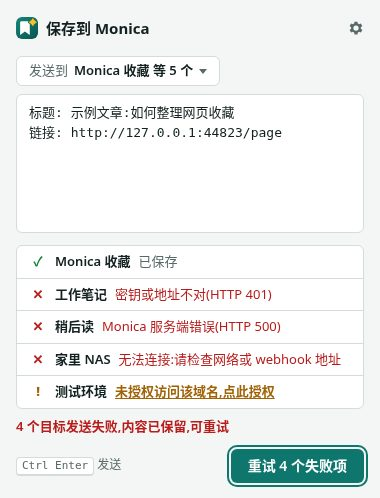
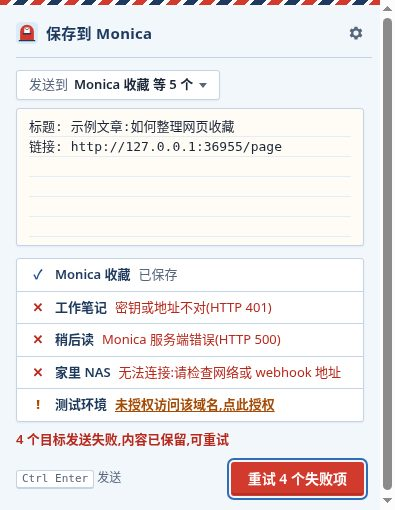
chore: release 2.1.0 with retro postal look and refreshed screenshots
- manifest: version 2.1.0; permissions unchanged.
- tests/e2e: light theme only, so the dark-mode captures
  (popup-multi-mixed-dark, popup-last-failure-dark, options-list-dark)
  and the color-scheme emulation are removed; all other assertions kept.
- docs/screenshots: 17 captures re-taken from the real extension in
  headless Chrome with dummy keys and local URLs; e2e-log.json updated.
- README / PRD: new mailbox logo, light-only postal palette and the
  non-green status colors; README shows the last-failure popup instead
  of the dropped dark capture.

diff --git a/styles/ui.css b/styles/ui.css
@@ -233,7 +233,7 @@ input[type="checkbox"] {
   accent-color: var(--navy);
 }
 
-/* One focus treatment everywhere: visible on light and dark surfaces. */
+/* One focus treatment everywhere: visible on paper, sky and red surfaces. */
 :focus-visible {
   outline: 2px solid var(--focus);
   outline-offset: 2px;

diff --git a/README.md b/README.md
@@ -19,7 +19,7 @@ If nothing is selected, title + URL are still sent.
 
 This extension does **not** write to Feishu and does **not** change Monica routines.
 
-<img src="docs/screenshots/popup-multi-mixed.jpg" width="320" alt="Popup sending to five webhooks with per-target results"> <img src="docs/screenshots/popup-multi-mixed-dark.jpg" width="320" alt="Same popup in dark mode">
+<img src="docs/screenshots/popup-multi-mixed.jpg" width="320" alt="Popup sending to five webhooks with per-target results"> <img src="docs/screenshots/popup-last-failure.jpg" width="320" alt="Popup offering to resend the last failed right-click save">
 
 ## Load unpacked (macOS and Windows)
 
@@ -34,7 +34,7 @@ Chrome steps are the same on both operating systems; only the folder picker look
    - **Mac:** Finder dialog — navigate to the clone, select the folder, Open.
    - **Windows:** Explorer dialog — navigate to the clone, select the folder, Select Folder.
 
-The toolbar gets the Monica Chrome Save icon (teal tile, white bookmark, amber spark). Pin it from the puzzle-piece menu if it is hidden.
+The toolbar gets the Monica Chrome Save icon (red mailbox on a light sky tile, a white letter going into the navy slot). Pin it from the puzzle-piece menu if it is hidden.
 
 Reload the extension on `chrome://extensions` after you pull updates.
 
@@ -80,8 +80,8 @@ Right-click on a link saves the current page title + **that link's href**. Selec
 | State | Popup | Right-click |
 | --- | --- | --- |
 | Sending | Button shows a spinner and is disabled (no double submit); textarea is read-only | — |
-| Success | ✓ `已保存到「名称」`, popup closes after 0.9 s | Badge `OK` (clears after ~3 s), toast, tooltip |
-| Failure | Red reason per target, content kept, button becomes **重试** (retries failed targets only) | Badge with the status code (or `ERR` / `PERM` / `CFG`), toast, tooltip; the content is kept for resend |
+| Success | Blue ✓ `已保存到「名称」`, popup closes after 0.9 s | Blue badge `OK` (clears after ~3 s), toast, tooltip |
+| Failure | Brick-red reason per target (orange for permission/config warnings), content kept, button becomes **重试** (retries failed targets only) | Red (or orange) badge with the status code (or `ERR` / `PERM` / `CFG`), toast, tooltip; the content is kept for resend |
 
 Failure reasons (always with the HTTP code when there is one; never the key or the response body):
 
@@ -168,7 +168,7 @@ Vanilla JS, no build step, no dependencies.
 | `lib/feedback.js` | Result → user-facing text / badge. |
 | `lib/failure.js` | The single kept failure record. |
 | `lib/menus.js`, `lib/menu-save.js`, `lib/toolbar.js` | Context-menu layout, context-menu save, badge + tooltip. |
-| `styles/ui.css` | Design tokens (light/dark) and base controls shared by `popup.*` and `options.*`. |
+| `styles/ui.css` | Design tokens and base controls shared by `popup.*` and `options.*` (light theme only, see [Look](#look)). |
 | `icons/logo.svg` | Logo source. `python3 scripts/generate-icons.py` renders `icons/icon{16,32,48,128}.png` and the 1024 px store master `icons/logo-1024.png` (gitignored) with ffmpeg + librsvg. |
 
 Unit tests (Node 18+):
@@ -186,3 +186,7 @@ node tests/e2e/screenshots.mjs
 It loads the real extension into headless Chrome over a CDP pipe (`Extensions.loadUnpacked`), points webhooks at a local mock server (`tests/e2e/mock-server.mjs`: 200 / 401 / 500 / never-answers / dropped connection), upgrades a configured 1.1.0 install in place to check the migration, drives the popup, options and the context-menu save path, asserts the outcomes and writes `docs/screenshots/*.jpg` plus `docs/screenshots/e2e-log.json`. Limits: the temp copy of the extension grants `http://127.0.0.1/*` up front because headless Chrome cannot answer permission prompts; headless Chrome has no toolbar or native context menu, so the badge and tooltip are read back through `chrome.action`, and menu clicks call the same `saveFromMenu()` the `onClicked` listener uses. Only dummy keys are used.
 
 Do not commit `.pem`, `.crx`, `.env`, or key files (see `.gitignore`).
+
+### Look
+
+Simple retro post office, light theme only (no dark mode): a pale sky ground with white and cream paper, mailbox red `#D23A2D` for primary buttons, the logo and stamp marks, navy `#1F3A5F` ink and thin sky rules. Details are kept small: an airmail stripe along the top edge, ruled letter paper for the compose box, the logo as a perforated stamp, an outlined stamp tag for the default webhook, dashed tear lines between list rows. Status colors avoid green: success postal blue `#1F4E8C`, failure brick red `#B8281C`, warning burnt orange `#A64B06` (popup, badge and toast share them). System fonts only; nothing is loaded from the network.

diff --git a/docs/PRD.md b/docs/PRD.md
@@ -58,7 +58,7 @@ Decided with Jesse on 2026-10-26. Protocol, request body and Bearer header are u
 - States: sending (spinner, disabled, no double submit) → success (✓ "已保存到「名称」", auto-close after 0.9 s) → failure (plain-language reason + HTTP code, content kept, Retry for failed targets only).
 - Reasons: 401/403 密钥或地址不对; 404 地址不存在; 429 请求过多,稍后再试; 5xx Monica 服务端错误; timeout / network 无法连接; missing origin grant "未授权访问该域名,点此授权" (requests the origin, then retries). Never the key or response body.
 - Requests time out after 15 s (`AbortController`).
-- Cmd/Ctrl+Enter sends. Keyboard operable, visible focus, light/dark via `prefers-color-scheme`. UI copy is Chinese.
+- Cmd/Ctrl+Enter sends. Keyboard operable, visible focus. UI copy is Chinese.
 
 ### Context menu
 - One webhook: "Save to Monica". Several: "Save to ▸ {名称}" (default marked). No "Save to all". Rebuilt whenever the list changes.
@@ -66,7 +66,16 @@ Decided with Jesse on 2026-10-26. Protocol, request body and Bearer header are u
 - A failed save is kept as the single "last failure" (content, webhook id, time, error kind/status; no key, no response body). The failure badge stays until the popup opens, which offers resend or discard. No send history.
 
 ### Brand
-- Logo: teal tile + white bookmark ribbon + amber four-point spark; `icons/logo.svg` is the source, PNGs and a 1024 px master are rendered by `scripts/generate-icons.py`.
+- See v2.1 below (replaces the 2.0 teal bookmark logo and light/dark themes).
+
+## Product — v2.1 (retro postal look)
+Decided with Jesse on 2026-10-26. Visual only: behavior, storage, protocol and permissions are unchanged.
+
+- Style: simple retro mailbox / post office, bright and airy. Light theme only; no dark mode.
+- Palette: pale sky ground, white and cream paper, mailbox red `#D23A2D` as the accent (primary buttons, logo, stamp marks), navy `#1F3A5F` ink, thin sky rules. No green anywhere.
+- Status: success postal blue `#1F4E8C`, failure brick red `#B8281C`, warning burnt orange `#A64B06`, shared by popup, options, toolbar badge and in-page toast.
+- Details: airmail stripe top edge, ruled letter paper, logo as a perforated stamp, outlined stamp tag for the default webhook, dashed tear lines; small radii, clear borders; system fonts only.
+- Logo: red mailbox on a light sky tile with a white letter entering the navy slot (the page is posted to the agent); no text, readable at 16 px. `icons/logo.svg` is the source; `scripts/generate-icons.py` renders the PNGs and a 1024 px master.
 
 ## Acceptance criteria
 - [ ] MV3 extension loads unpacked in Chrome without errors.
